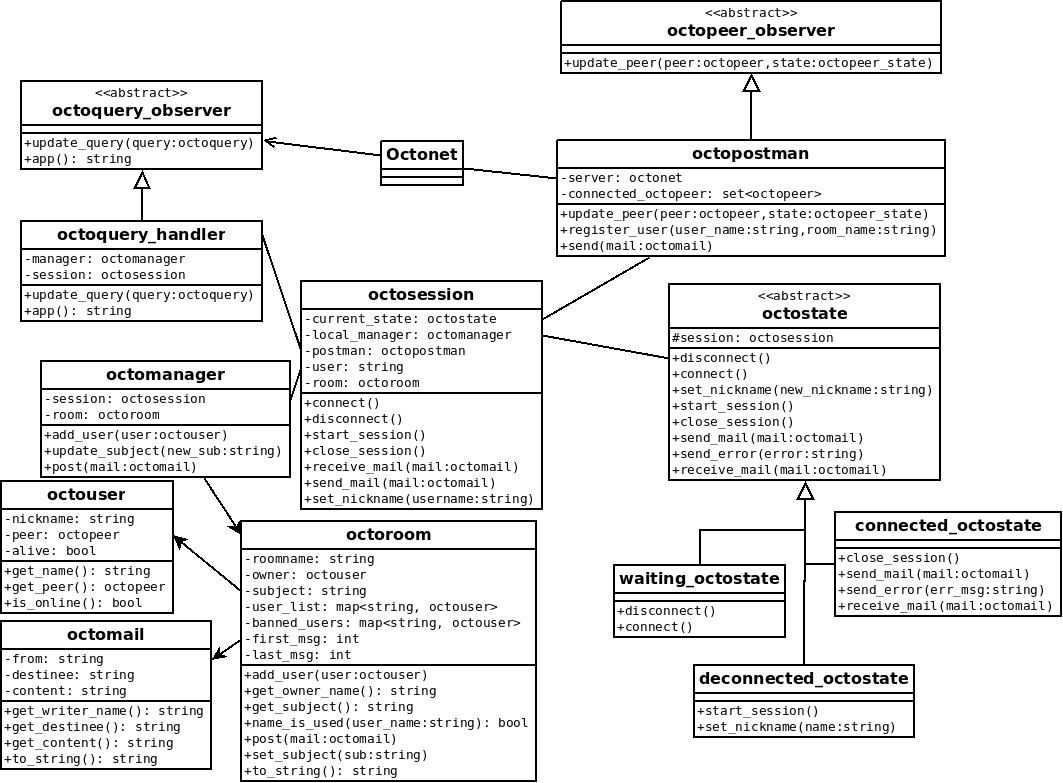
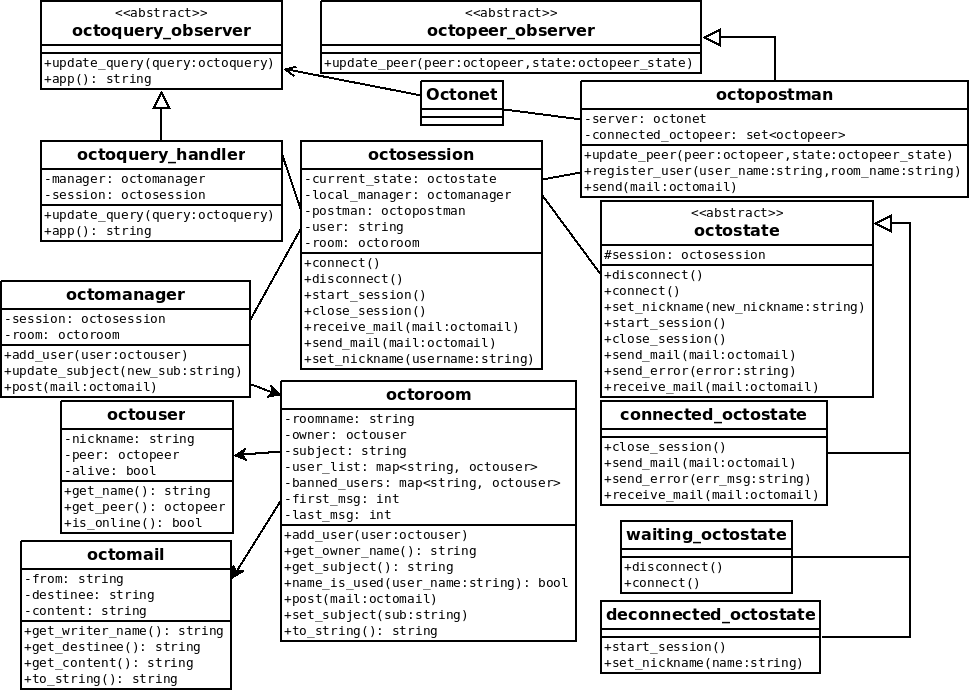
fixing virtual functions + UML updated

Changed region(s): [[0.0, 0.0, 1.0, 1.0], [0.2781, 0.0, 0.309, 0.0304], [0.0309, 0.0, 0.0618, 0.0304]]

diff --git a/src/octochat/octostates.cpp b/src/octochat/octostates.cpp
@@ -33,40 +33,9 @@
 #include "octochat/octostate.hpp"
 #include "octochat/octostates.hpp"
 
-// octostate implementation
-/**
- * connection transition
- */
-void octostate::connect() {}
-/**
- * deconnection transition
- */
-void octostate::disconnect() {}
-/**
- * start the session
- */
-void octostate::start_session() {}
-/**
- * stop the session
- */
-void octostate::close_session() {}
-/**
- * receive a new mail
- * @param[in] mail mail to post in local(s) octoroom
- */
-void octostate::receive_mail( octomail mail ) {}
-/**
- * post a new octomail
- * @param[in] mail The octomail to send to peers octorooms
- */
-void octostate::send_mail( octomail mail ) {}
-/**
- * change the nickname of the octo-user
- * @param[in] nickname The octo-ouser name
- */
-void octostate::set_nickname( const std::string &nickname ) {}
-
+ //
  // connected_octostate implementation
+ //
 /**
  * constructor
  * @param[in] session The current session
@@ -84,20 +53,22 @@ void connected_octostate::send_mail( octomail mail )
 }
 void connected_octostate::close_session()
 {
-	__session->set_current_state( __session->get_waiting_state() );
+	// enter in the waiting state
+	__session->set_current_state( new waiting_octostate( __session ) );
 	__session->notify( deconnected );
-	//__session->get_octopostman()->byebye();
 	/// \todo send a query to locals peers when users is being deconnected
 }
 
-// deconnected_octostate implementation
+ //
+ // deconnected_octostate implementation
+ //
 deconnected_octostate::deconnected_octostate( octosession* session ) :
 	__session( session )
 {}
 /// start the session (i.e try to connect to peers octorooms )
 void deconnected_octostate::start_session() {
 	// the session is now waiting for be connected to peers octorooms
-	__session->set_current_state( __session->get_waiting_state() );
+	__session->set_current_state( new waiting_octostate( __session ) );
 	// send query to connect
 	__session->get_octopostman()->register_user(
 							__session->get_nickname(), OCTOCHAT_DEFAULT_ROOM_NAME );
@@ -105,15 +76,18 @@ void deconnected_octostate::start_session() {
 }
 #include <iostream>
 /// change the nickname for chat
-void deconnected_octostate::set_nickname( const std::string& nickname )
+void deconnected_octostate::set_nickname( std::string& nickname )
 {
+	std::cout << "(1)" << nickname << " edit" << std::endl;
+	std::cout << "(2)" << __session->get_nickname() << " edit" << std::endl;
 	// change name of the user
 	// call set_nickname cause calling this function => infinite loop
 	__session->edit_nickname( nickname );
-	std::cout << nickname << " edit" << std::endl;
 }
 
-// waiting_octostate implementation
+ //
+ // waiting_octostate implementation
+ //
 	/**
  * constructor
  * @param[in] session The current session
@@ -124,12 +98,14 @@ waiting_octostate::waiting_octostate( octosession* session ) :
 /// function to pass from waiting state to deconnected state
 void waiting_octostate::disconnect()
 {
-	__session->set_current_state( __session->get_deconnected_state() );
+	// the session is now deconnected
+	__session->set_current_state( new deconnected_octostate( __session ) );
 	__session->notify( deconnected );
 }
 /// function to pass from waiting state to connected state
 void waiting_octostate::connect()
 {
-	__session->set_current_state( __session->get_connected_state() );
+	// the session is now connected
+	__session->set_current_state( new connected_octostate( __session ) );
 	__session->notify( connected );
 }

diff --git a/src/octochat/octosession.cpp b/src/octochat/octosession.cpp
@@ -39,10 +39,7 @@
  * @param[in] server Octonet instance
  */
 octosession::octosession( octonet* server ) :
-	// initiate states
-	__deco_state( deconnected_octostate( this ) ),
-	__wait_state( waiting_octostate( this ) ),
-	__connected_state( connected_octostate( this ) ),
+	// At programm start up, the session is deconnected
 	__current_state( new deconnected_octostate( this ) ),
 	// initiate session stuffs
 	__local_manager(),
@@ -51,39 +48,14 @@ octosession::octosession( octonet* server ) :
 	// register an observer to get notified on new queries
 	server->add_query_observer( new octoquery_handler( __local_manager, this ) );
 }
-
-/**
- *  getter for state pattern : deconnected state
- * @param[out] deconnected state
- */
-octostate octosession::get_deconnected_state()
-{
-	return __deco_state;
-}
-/**
- * getter for state pattern : connected state
- * @param[out] connected state
- */
-octostate octosession::get_connected_state()
-{
-	return __connected_state;
-}
-/**
- * getter for state pattern : waiting state
- * @param[out] waiting state
- */
-octostate octosession::get_waiting_state()
-{
-	return __wait_state;
-}
 /**
  * setter for state pattern
  * @param[in] state The nex state
  * This function is supposed to be only called by octostate objects
  */
-void octosession::set_current_state( octostate state )
+void octosession::set_current_state( octostate* state )
 {
-	__current_state = &state;
+	__current_state = state;
 }
 /**
  * When the session is connected
@@ -150,8 +122,9 @@ void octosession::close_session()
  * set the nickname user for the session
  * @param[in] nickname username for the session
  */
-void octosession::set_nickname( std::string nickname )
+void octosession::set_nickname( std::string& nickname )
 {
+	std::cout << "changing username with " << __username << std::endl;
 	__current_state->set_nickname( nickname );
 }
 /**
@@ -170,6 +143,9 @@ std::string octosession::get_nickname()
 void octosession::edit_nickname( std::string nickname )
 {
 	__username = nickname;
+	std::cout << "j'edite " << __username << std::endl ;
+	std::cout << nickname << std::endl;
+	std::cout << __username << std::endl;
 }
 /**
  * Send a query to an octo-user when he tried to joint

diff --git a/include/octochat/octosession.hpp b/include/octochat/octosession.hpp
@@ -48,14 +48,6 @@
 class octosession : public octo_subject
 {
 	private:
-		/// attributs for state pattern
-		/// the deconnected state
-		octostate __deco_state;
-		/// the waiting state
-		octostate __wait_state;
-		/// the connected state
-		octostate __connected_state;
-
 		/// current state of the session
 		octostate* __current_state;
 		/// room for the session
@@ -70,19 +62,12 @@ class octosession : public octo_subject
 	public:
 	/// constructor
 	octosession( octonet* );
-	/// getter for state pattern : deconnected state
-	octostate get_deconnected_state();
-	/// getter for state pattern : connected state
-	octostate get_connected_state();
-	/// getter for state pattern : waiting state
-	octostate get_waiting_state();
 	/// setter for state pattern
-	void set_current_state( octostate );
+	void set_current_state( octostate* );
 	/// When the session is connected
 	void connect();
 	/// When the session is being disconnected
 	void disconnect();
-
 	/// get the current manager for the session
 	octomanager* get_octomanager();
 	/// Get the current postman for the current session
@@ -96,12 +81,12 @@ class octosession : public octo_subject
 	/// close the current session
 	void close_session();
 	/// set the nickname user for the session
-	void set_nickname( std::string );
+	void set_nickname( std::string& );
 	/// get the nickname for the session
 	std::string get_nickname();
 	/// Change the name of the user (only callable from octostates
 	void edit_nickname( std::string );
-	/// send a query to an octo-user when he tried to joint the local room
+	/// send a query to octo-user when he tried to joint the local room
 	void notify_user_auth( octouser*, bool );
 
 };

diff --git a/include/octochat/octostate.hpp b/include/octochat/octostate.hpp
@@ -42,20 +42,38 @@
 class octostate
 {
 	public:
-		/// connection transition
-		void connect();
-		/// deconnection transition
-		void disconnect();
-		/// start the session
-		void start_session();
-		/// stop the session
-		void close_session();
-		/// Set the nickname for the user
-		void set_nickname( const std::string& );
-		/// receive a new mail
-		void receive_mail( octomail mail );
-		/// send a new octomail
-		void send_mail( octomail mail );
+		// octostate implementation
+		/**
+		 * connection transition
+		 */
+		virtual void connect() {}
+		/**
+		 * deconnection transition
+		 */
+		virtual void disconnect() {}
+		/**
+		 * start the session
+		 */
+		virtual void start_session() {}
+		/**
+		 * stop the session
+		 */
+		virtual void close_session() {}
+		/**
+		 * receive a new mail
+		 * @param[in] mail mail to post in local(s) octoroom
+		 */
+		virtual void receive_mail( octomail mail ) {}
+		/**
+		 * post a new octomail
+		 * @param[in] mail The octomail to send to peers octorooms
+		 */
+		virtual void send_mail( octomail mail ) {}
+		/**
+		 * change the nickname of the octo-user
+		 * @param[in] nickname The octo-ouser name
+		 */
+		virtual void set_nickname( std::string& nickname ) {}
 };
 
 /**

diff --git a/src/octochat/chat.cpp b/src/octochat/chat.cpp
@@ -45,8 +45,8 @@ class octo_ui : public octobserver
 	/**
 	 * Ask to user a nickname for chatting
 	 * And be sure the name it's not already used
-	 * @param[out] The name of the user or an empty string if the name entered
-	 * is not unique.
+	 * @param[out] The name of the user or an empty string if the given
+	 * name is not unique.
 	 */
 	void set_name_id()
 	{
@@ -54,7 +54,7 @@ class octo_ui : public octobserver
 		cout << "Please enter a nickname: ";
 		cin >> nickname;
 		__session->set_nickname( nickname );
-}
+	}
 
 };
 

diff --git a/include/octochat/octoquery_handler.hpp b/include/octochat/octoquery_handler.hpp
@@ -92,7 +92,7 @@ class octoquery_handler : public octoquery_observer
 				octouser* owner = new octouser( query.headers_map.find( OCTOCHAT_PROTOCOL_OWNER )->second, owner_peer );
 				// start local room
 				__manager->open_local_octoroom( owner, OCTOCHAT_PROTOCOL_ROOM );
-				__session->set_nickname( query.content_str );
+				__session->edit_nickname( query.content_str );
 				__session->connect();
 			}
 			// the query is to noticied user can't be connected

diff --git a/include/octochat/octostates.hpp b/include/octochat/octostates.hpp
@@ -69,7 +69,7 @@ class deconnected_octostate : public octostate
 		/// start the session (i.e try to connect to peers octorooms )
 		void start_session();
 		/// change the nickname for chat
-		void set_nickname( const std::string& );
+		void set_nickname( std::string& );
 };
 
 /// waiting state

diff --git a/include/octochat.hpp b/include/octochat.hpp
@@ -342,7 +342,7 @@ class octoroom
 		/** currently incompleted implementation, we're working on
 		 * Get the title of a room
 		 * @param[out] The octoroom subject
-		 *
+		 */
 		std::string get_subject()
 		{
 			return __subject;

diff --git a/include/octochat/octobserver.hpp b/include/octochat/octobserver.hpp
@@ -40,7 +40,7 @@ class octobserver
 {
 	public:
 		/// get updated from the observable object
-		virtual void update( octostates_name state) = 0 ;
+		virtual void update( octostates_name state ) = 0 ;
 };
 
 #endif
